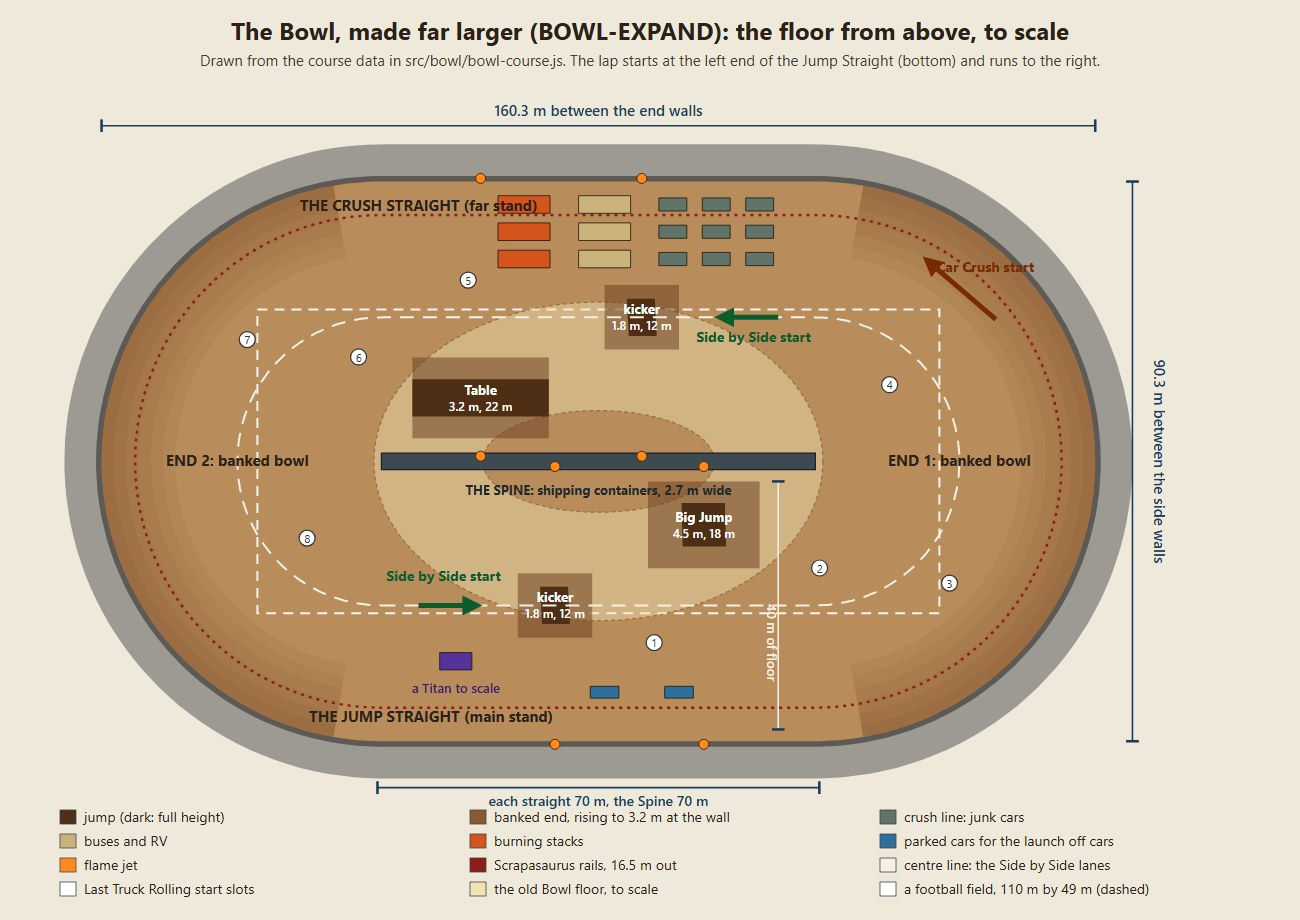
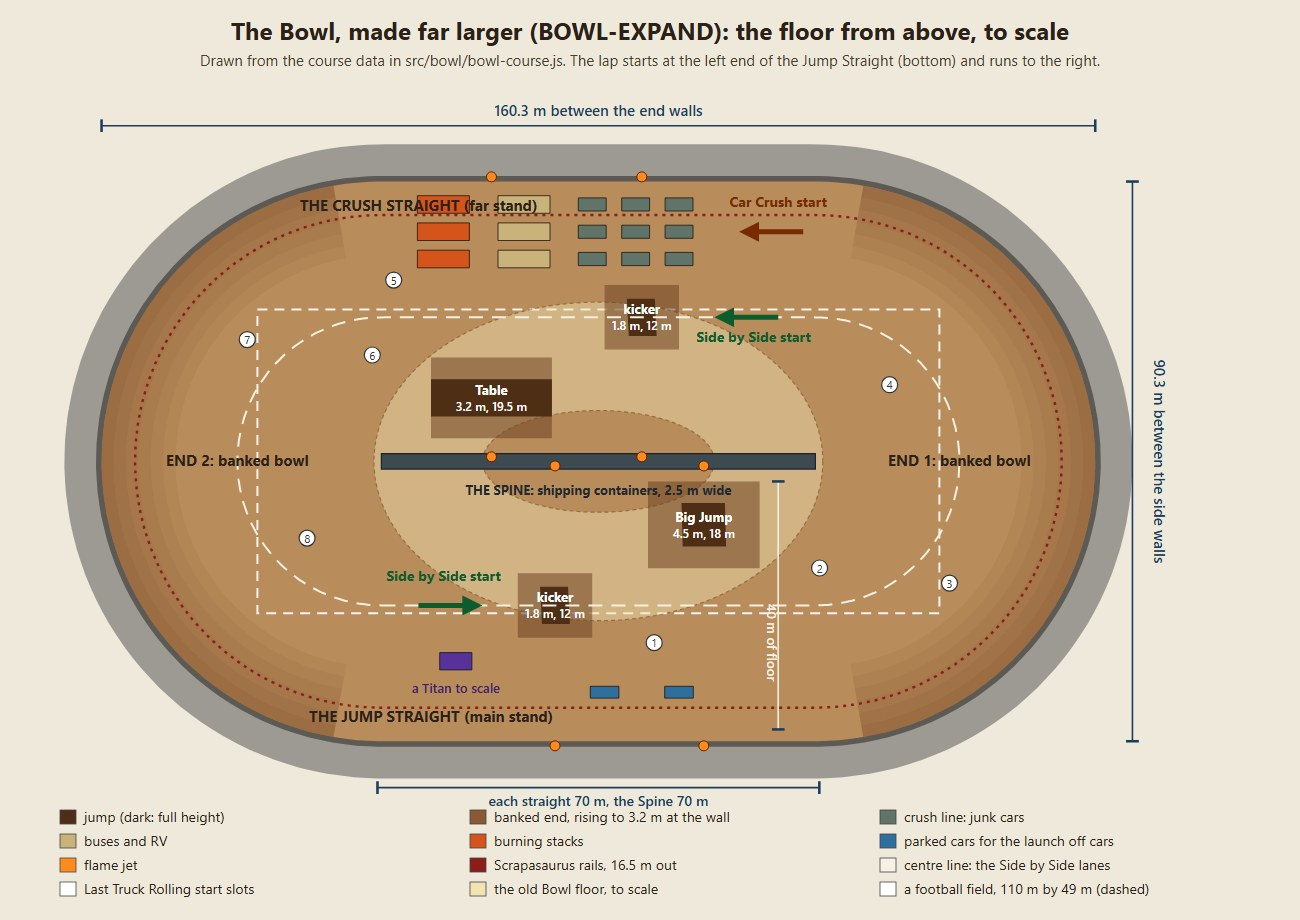
BOWL-EXPAND: round 1 pictures, plan redrawn, change note
Round 1 at night in the real game (docs/board/looks/bowl-expand/round-1.jpg)
and the plan redrawn for the moved crush line. Lane tier on 582f88e15:
229 passed, 1 failed (test-race-field fails the same on integration at
d3bac9278); npm run build passed; independent review's fixes in a33c079a2.

diff --git a/docs/changes/BOWL-EXPAND.md b/docs/changes/BOWL-EXPAND.md
@@ -2,7 +2,7 @@
 
 **Changed.** The Bowl (`titan-bowl`, dev) is a stadium floor 160 m by 90 m between its walls, five times the old floor: a 286 m ring round the Spine (a row of containers), 20 m of floor either side, jumps of 1.8, 3.2 and 4.5 m on the straights, banked ends, the crush line 13 m down the far straight, and the show's places in `course.features.bowl` (crush, launch cars, mirrored lanes half a lap apart, rails, start). The stadium is drawn in code (`src/bowl/bowl-stadium.js`): terraces to 27 m, the wall and catch fence, about 24,000 people, four floodlight towers, the Spine with Big Mo's booth, two screens. On the Bowl only: the floor's grip and top speed apply in every event (a Titan settles near 50 mph; it reached 98 mph before), a truck turns freely, and air control ignores a key held from before take-off until it is pressed again (a held throttle landed the Titan on its roof). No gantry, finish posts, road signs or guard rails on its floor. Layout and what each card building on the Bowl must change: the card and `docs/board/looks/bowl-expand/look-1.jpg`.
 
-**Checks** on CHECKS-COMMIT: `node tools/test-bowl-course.mjs`, `test-bowl-air`, `test-bowl-show`, `test-bowl-save`, `test-shortcut-presets`, `test-feature-flags`, `test-board`, `test-repo-hygiene`; lane tier LANE-RESULT; `npm run build` BUILD-RESULT. Not run here: `test-blender-output` (starts Blender; only its stadium entry was removed). Look and hand drive in the real game at night on a private port: pictures from truck height, the top row and above; the kicker 4.0 m up and 28.9 m, the Big Jump 10 m up and 43.7 m, End 1 at 52 mph, the crush line crushed at 45 mph. No frame check (dev switch, rule 9).
+**Checks** on `582f88e15` (`integration/wasteland` at `d3bac9278` is in the branch): `node tools/test-bowl-course.mjs`, `test-bowl-air`, `test-bowl-show`, `test-bowl-save`, `test-shortcut-presets`, `test-feature-flags`, `test-board`, `test-repo-hygiene`; lane tier with `--keep-going` 229 passed, 1 failed: `test-race-field` (its racecraft fingerprint for seed 1989), which fails with the same hash on `integration/wasteland` itself at `d3bac9278`, so it is not this change; a first lane run on `a765e483b` stopped at the same failure; `npm run build` passed. Independent review by a subagent: no serious defect; its seven fixes are in `a33c079a2`. Not run here: `test-blender-output` (starts Blender; only its stadium entry was removed). Look and hand drive in the real game at night on a private port (`docs/board/looks/bowl-expand/round-1.jpg`): pictures from truck height, the top row and above; the kicker 4.0 m up and 28.9 m, the Big Jump 10 m up and 43.7 m, End 1 at 52 mph, the crush line crushed at 45 mph. No frame check (dev switch, rule 9).
 
 **Changed assertions.** `test-bowl-course`: the old ring's sizes, two ramps, four jets and the stadium model's cuts became the new floor's sizes and clearances, four jumps of three heights in their own stretches of the lap, eight jets (all burning early in the cycle, as the four pairs fire a beat apart), real drives over each jump, the mirrored lanes, free turning, the floor's top speed and the code-drawn stadium. `test-bowl-air`: keys are pressed after take-off, as the new rule needs; a new case proves a held key tips nothing. Nothing loosened. **Pinned:** the shortcut presets' source fingerprint (the solver reaches `course.js`); regenerated, all 15 layouts identical.
 

diff --git a/docs/board/looks/bowl-expand/round-1-review.md b/docs/board/looks/bowl-expand/round-1-review.md
@@ -1,0 +1,15 @@
+# BOWL-EXPAND round 1 (Claude, 19 November 2026, night)
+
+`look-1.jpg` is the floor from above, drawn from the course data. `round-1.jpg` is six views at night in the real game on
+a private port: two from truck height, two from the top row, one in End 2 at truck height and one from above.
+
+**Verdict: in proportion and ready for Kyle's try.** A Titan is small on this floor: 31 truck lengths end to end, 14
+across a straight. The stands rise all the way round, full of people, with tunnel mouths, aisles and four floodlight
+towers; the Spine reads as a row of rusted containers with Big Mo's booth and flame jets. From the top row the jumps
+read as dirt ramps of three sizes with room between them. Driven by hand, the floor does not feel cramped: the kicker
+gave 1.2 s of air, the Big Jump 10 m up and 43.7 m along, End 1 was taken at 52 mph.
+
+**Still to do (later rounds, not this card's acceptance):** the crush line's junk cars are the game's plain junk-car
+props and look toy-like beside the photographed crushed buses; the banked ends are hard to see in the night light; the
+floor is one plain colour with no ruts; the game's rear-view mirror shows in every picture. No frame check was run:
+the Bowl is behind a dev switch (rule 9).

diff --git a/docs/board/cards/BOWL-EXPAND.md b/docs/board/cards/BOWL-EXPAND.md
@@ -164,3 +164,13 @@ and `tools/blender/bowl-stadium.py`.
   floor; the Bowl has none now.
 - Measured in the real game by hand: the kicker 4.0 m up, 28.9 m, 1.2 s; the Big Jump 10 m up, 43.7 m; End 1 taken at
   52 mph; the crush line crushed at 45 mph.
+
+## Changed assertions: Claude's review
+
+`tools/test-bowl-course.mjs` was written for the old ring and its stadium model; every claim it made about the ring,
+its two ramps, its four jets and the model's cuts is replaced by a claim about the new floor that is at least as strong
+(real full-throttle drives over each jump that must land upright, flight distances in order of height, wall clearances
+measured on every piece, the floor's top speed, free turning, mirrored lanes, a stadium drawn once). The jets' firing
+check now looks early in the cycle because four pairs fire a beat apart. `tools/test-bowl-air.mjs` presses keys after
+take-off because the rule changed on purpose (a key held from before take-off tips nothing), and a new case proves that
+rule. Nothing is loosened. The independent reviewer read the same changes and agreed.
